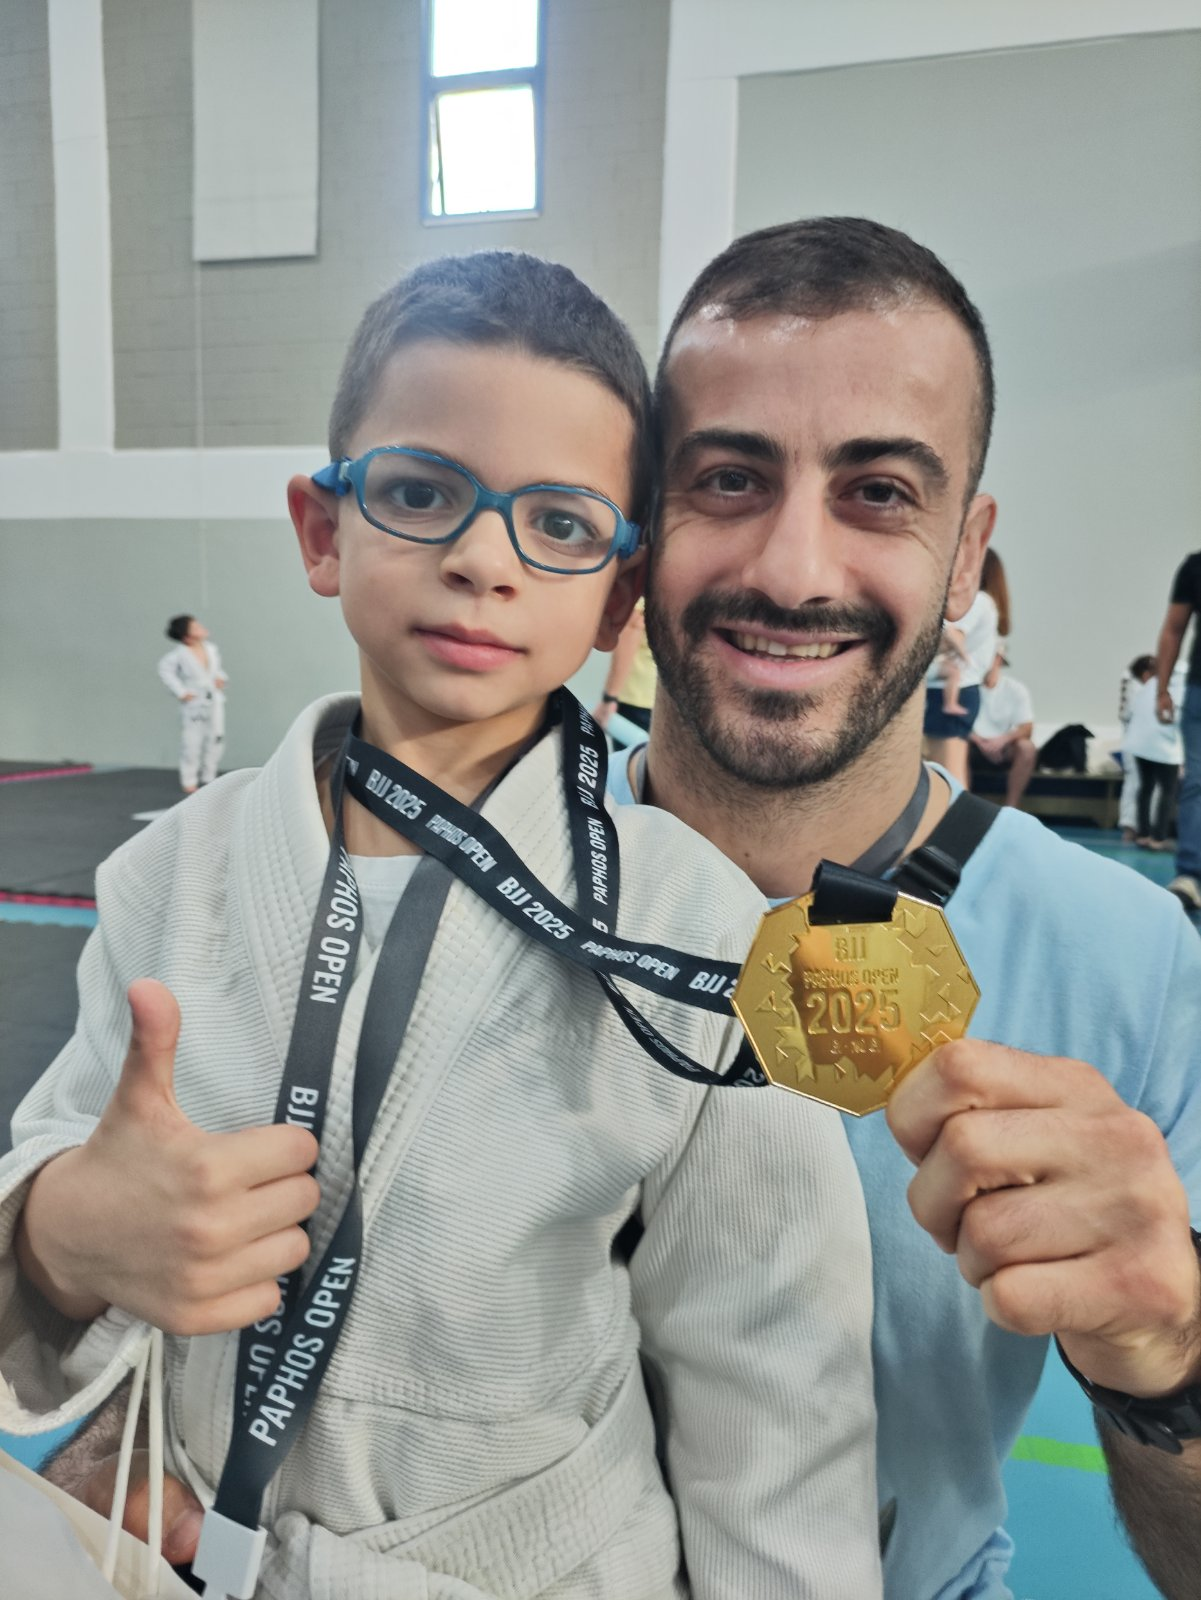
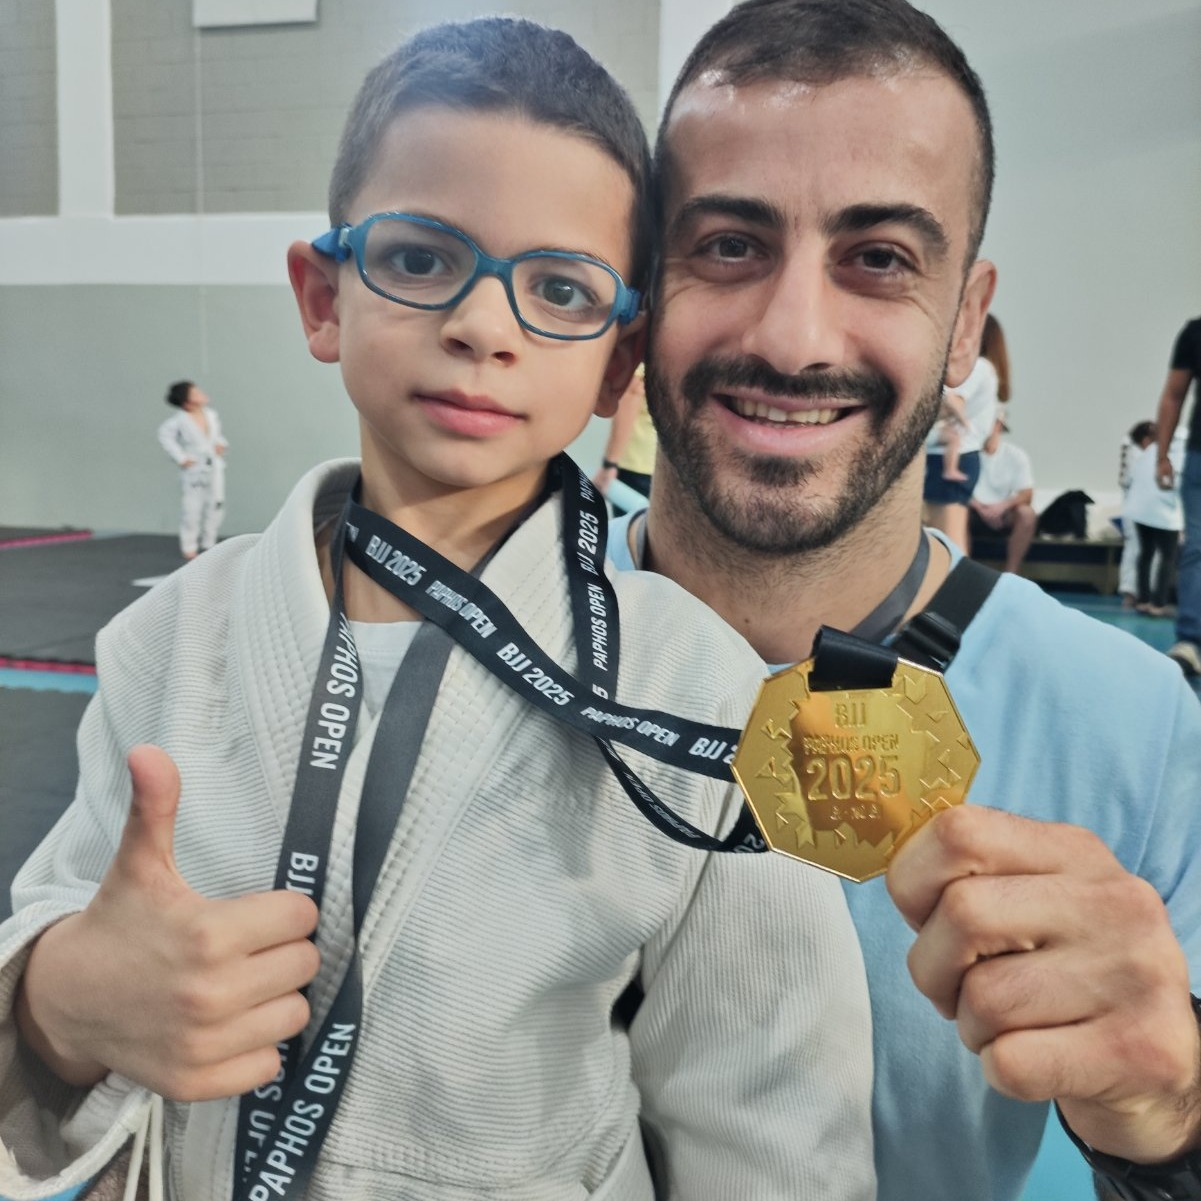
Crop slideshow photos around their faces; new Orestis card photo
The About section is about 2:1 on desktop but 1:3 on mobile, so no
single crop suits both. Each portrait photo is instead cropped to a
square centred on its faces, using OpenCV face detection - a centred
window then lands on the faces whichever shape the section takes.
sh1 and sh7 were positioned by eye since no face is detectable in
them (hands covering, head tilted back). sh10 needed a tighter square
to bring its face off the left edge. The three landscape photos are
untouched; they already suit the wide band.

object-position goes back to centre, since the faces are now centred in
the files themselves rather than being chased with CSS.

Orestis's card gets the Cyprus national team photo, cropped to the 3:4
the card expects so his sides are not sliced off.

diff --git a/index.html b/index.html
@@ -11,7 +11,7 @@
 <link href="https://fonts.googleapis.com/css2?family=Montserrat:wght@600;700;800&family=Nunito:wght@400;600;700&display=swap" rel="stylesheet">
 <!-- Bump ?v= whenever style.css or script.js changes so browsers fetch the new file
      instead of serving a cached copy. -->
-<link rel="stylesheet" href="css/style.css?v=9">
+<link rel="stylesheet" href="css/style.css?v=10">
 </head>
 <body>
 
@@ -170,7 +170,7 @@
 
       <article class="coach-card">
         <div class="coach-media">
-          <img class="coach-photo" src="images/orestis-coaching.jpg" alt="Coach Orestis" onerror="this.classList.add('missing')">
+          <img class="coach-photo" src="images/orestis-coach.jpg" alt="Coach Orestis" onerror="this.classList.add('missing')">
           <span class="coach-fallback" aria-hidden="true">O</span>
           <div class="coach-overlay">
             <h3>Orestis</h3>
@@ -361,6 +361,6 @@
   </div>
 </footer>
 
-<script src="js/script.js?v=9"></script>
+<script src="js/script.js?v=10"></script>
 </body>
 </html>

diff --git a/css/style.css b/css/style.css
@@ -295,10 +295,10 @@ a:hover { text-decoration: underline; }
   width: 100%;
   height: 100%;
   object-fit: cover;
-  /* The section is wide and short, so a portrait photo only shows about a
-     third of its height. Anchor that window near the top, where faces sit -
-     centring it cuts heads off. */
-  object-position: 50% 20%;
+  /* The portrait photos are pre-cropped to squares centred on their faces, so
+     a centred window lands on the faces on both shapes this section takes:
+     roughly 2:1 on desktop and 1:3 on mobile. */
+  object-position: 50% 50%;
   opacity: 0;
   /* Kept well under the 2.5s hold so each photo settles before the next fade */
   transition: opacity .7s ease;

diff --git a/privacy.html b/privacy.html
@@ -9,7 +9,7 @@
 <link rel="preconnect" href="https://fonts.googleapis.com">
 <link rel="preconnect" href="https://fonts.gstatic.com" crossorigin>
 <link href="https://fonts.googleapis.com/css2?family=Montserrat:wght@600;700;800&family=Nunito:wght@400;600;700&display=swap" rel="stylesheet">
-<link rel="stylesheet" href="css/style.css?v=9">
+<link rel="stylesheet" href="css/style.css?v=10">
 </head>
 <body>
 
@@ -130,6 +130,6 @@
   </div>
 </footer>
 
-<script src="js/script.js?v=9"></script>
+<script src="js/script.js?v=10"></script>
 </body>
 </html>
